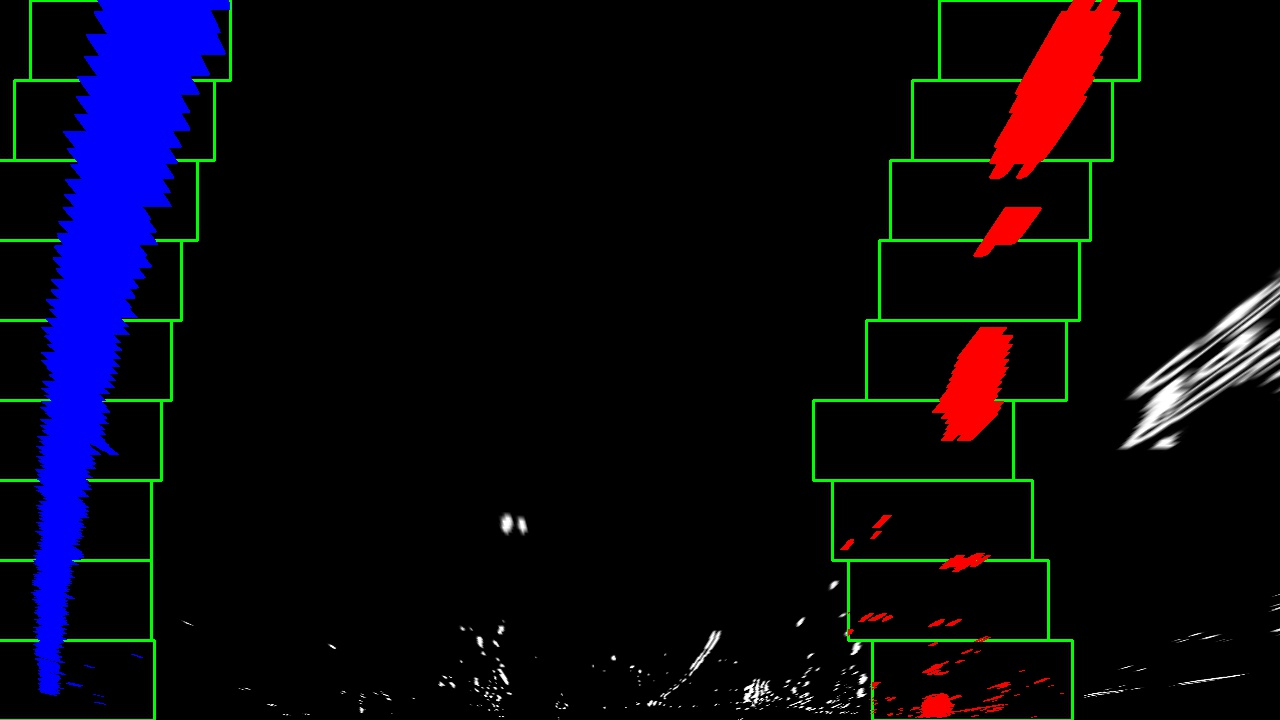
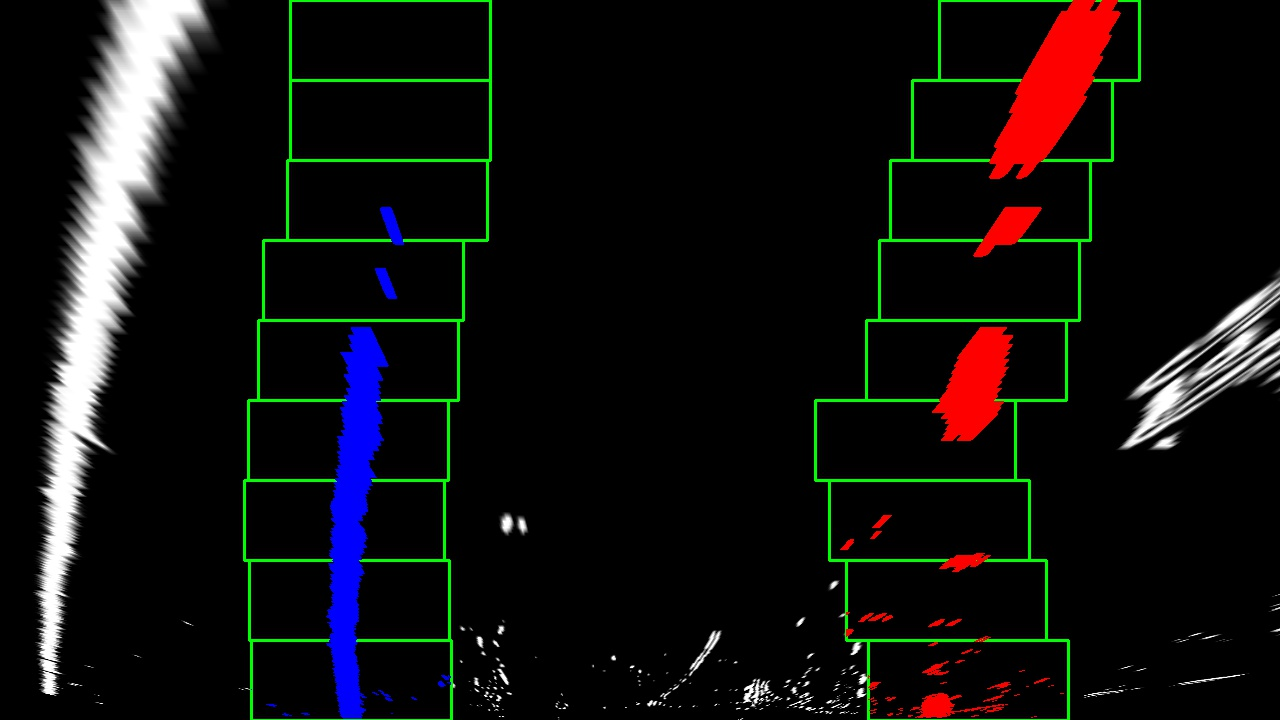
fixed color space bug

diff --git a/src/line_curve.py b/src/line_curve.py
@@ -141,10 +141,12 @@ def threshAndTransform():
             isFirst = False
         # cv2.imshow('image2', image)
         #  cv2.waitKey(0)
-        img_thrsh = threshold_pipeline(img)
-        unwarped, _ = lines_unwarp(img_thrsh, mtx, dist)
-        out_img = fit_polynomial(unwarped[:, :, 0])
         plainName = imgName.split("/")[2]
+        img_thrsh = threshold_pipeline(cv2.cvtColor(img, cv2.COLOR_BGR2RGB))
+        cv2.imwrite('../output_images/threshold/'+plainName, img_thrsh)
+        unwarped, _ = lines_unwarp(img_thrsh, mtx, dist)
+        cv2.imwrite('../output_images/unwarped_thresh/'+plainName, unwarped)
+        out_img = fit_polynomial(unwarped[:, :, 0])
         cv2.imwrite('../output_images/pipeline/'+plainName, out_img)
 
 threshAndTransform()

diff --git a/src/color_gradient_thrsh.py b/src/color_gradient_thrsh.py
@@ -171,5 +171,4 @@ def test():
     cv2.imshow('pipelne', cv2.cvtColor(result, cv2.COLOR_RGB2BGR))
     cv2.waitKey(0)
 
-
 # cv2.imshow(result)
